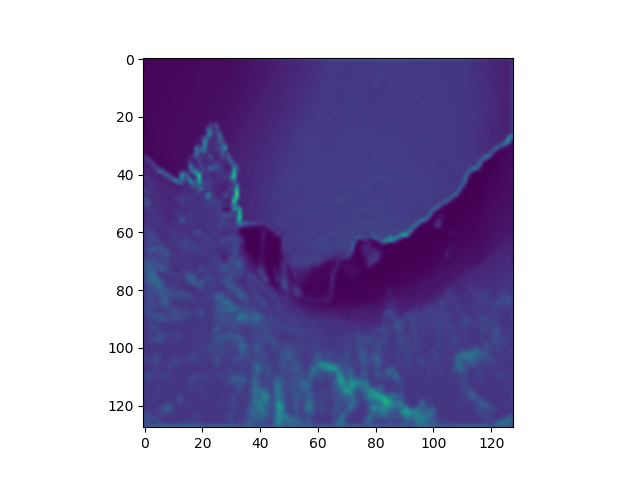
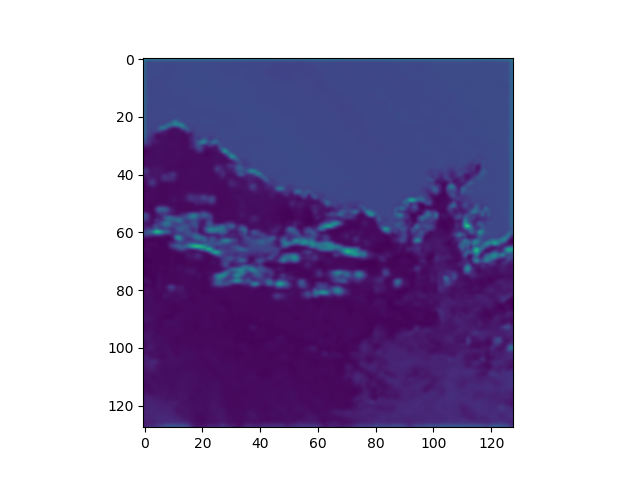
switch to resnet encoder

Changed region(s): [[0.2188, 0.125, 0.8125, 0.9062]]

diff --git a/models/networks.py b/models/networks.py
@@ -10,6 +10,68 @@ from .stylegan_networks import StyleGAN2Discriminator, StyleGAN2Generator, TileS
 ###############################################################################
 # Helper Functions
 ###############################################################################
+class ResnetAttention(nn.Module):
+    def __init__(self, input_nc, output_nc, ngf=64, norm_layer=nn.BatchNorm2d, use_dropout=False, n_blocks=6, padding_type='reflect', no_antialias=False, no_antialias_up=False, opt=None):
+        assert(n_blocks >= 0)
+        super(ResnetAttention, self).__init__()
+        self.opt = opt
+        if type(norm_layer) == functools.partial:
+            use_bias = norm_layer.func == nn.InstanceNorm2d
+        else:
+            use_bias = norm_layer == nn.InstanceNorm2d
+
+        model = [nn.ReflectionPad2d(3),
+                 nn.Conv2d(input_nc, ngf, kernel_size=7, padding=0, bias=use_bias),
+                 norm_layer(ngf),
+                 nn.ReLU(True)]
+
+        n_downsampling = 2
+        for i in range(n_downsampling):  # add downsampling layers
+            mult = 2 ** i
+            if(no_antialias):
+                model += [nn.Conv2d(ngf * mult, ngf * mult * 2, kernel_size=3, stride=2, padding=1, bias=use_bias),
+                          norm_layer(ngf * mult * 2),
+                          nn.ReLU(True)]
+            else:
+                model += [nn.Conv2d(ngf * mult, ngf * mult * 2, kernel_size=3, stride=1, padding=1, bias=use_bias),
+                          norm_layer(ngf * mult * 2),
+                          nn.ReLU(True),
+                          Downsample(ngf * mult * 2)]
+
+        mult = 2 ** n_downsampling
+        for i in range(n_blocks):       # add ResNet blocks
+
+            model += [ResnetBlock(ngf * mult, padding_type=padding_type, norm_layer=norm_layer, use_dropout=use_dropout, use_bias=use_bias)]
+
+        # add an additional layer to get final patch discriminator predictions for attention training
+        model += [nn.Conv2d(ngf*mult, 1, kernel_size=3, stride=1, padding=1, bias=use_bias)]
+
+        self.model = nn.Sequential(*model)
+
+    def forward(self, input, layers=[], encode_only=False):
+        if -1 in layers:
+            layers.append(len(self.model))
+        if len(layers) > 0:
+            feat = input
+            feats = []
+            for layer_id, layer in enumerate(self.model):
+                # print(layer_id, layer)
+                feat = layer(feat)
+                if layer_id in layers:
+                    # print("%d: adding the output of %s %d" % (layer_id, layer.__class__.__name__, feat.size(1)))
+                    feats.append(feat)
+                else:
+                    # print("%d: skipping %s %d" % (layer_id, layer.__class__.__name__, feat.size(1)))
+                    pass
+                if layer_id == layers[-1] and encode_only:
+                    # print('encoder only return features')
+                    return feats  # return intermediate features alone; stop in the last layers
+
+            return feat, feats  # return both output and intermediate features
+        else:
+            """Standard forward"""
+            fake = self.model(input)
+            return fake
 
 
 def get_filter(filt_size=3):
@@ -263,6 +325,9 @@ def define_G(input_nc, output_nc, ngf, netG, norm='batch', use_dropout=False, in
     elif netG == 'resnet_cat':
         n_blocks = 8
         net = G_Resnet(input_nc, output_nc, opt.nz, num_downs=2, n_res=n_blocks - 4, ngf=ngf, norm='inst', nl_layer='relu')
+    # add resnet attention decoder
+    elif netG == 'resnet_attention':
+        net = ResnetAttention(input_nc, output_nc, ngf, norm_layer=norm_layer, use_dropout=use_dropout, no_antialias=no_antialias, no_antialias_up=no_antialias_up, n_blocks=9, opt=opt)
     else:
         raise NotImplementedError('Generator model name [%s] is not recognized' % netG)
     return init_net(net, init_type, init_gain, gpu_ids, initialize_weights=('stylegan2' not in netG))

diff --git a/models/attention_model.py b/models/attention_model.py
@@ -21,7 +21,10 @@ class AttentionModel(BaseModel):
         self.loss_names = ['D']
         self.visual_names = ['input', 'output']
         self.model_names = ['D']
-        self.netD = networks.define_D(opt.output_nc, opt.ndf, opt.netD, opt.n_layers_D, opt.normD, opt.init_type, opt.init_gain, opt.no_antialias, self.gpu_ids, opt)
+        # self.netD = networks.define_D(opt.output_nc, opt.ndf, opt.netD, opt.n_layers_D, opt.normD, opt.init_type, opt.init_gain, opt.no_antialias, self.gpu_ids, opt)
+        self.netD = networks.define_G(opt.input_nc, opt.output_nc, opt.ngf, opt.netG, opt.normG, not opt.no_dropout,
+                                      opt.init_type, opt.init_gain, opt.no_antialias, opt.no_antialias_up, self.gpu_ids,
+                                      opt)
         self.layers = [2, 6, 10, 14]
         if self.isTrain:
             self.criterionLoss = networks.GANLoss(opt.gan_mode).to(self.device)
@@ -57,5 +60,6 @@ class AttentionModel(BaseModel):
 
     def generate_attention(self):
         "Return list of channel-wise squared mean feature maps"
-        feat_maps = self.netD.attention_forward(self.input_imgs, self.layers)
+        # feat_maps = self.netD.attention_forward(self.input_imgs, self.layers)
+        feat_maps = self.netG(self.input_imgs, self.layers, encode_only=True)
         return feat_maps

diff --git a/train_attention.py b/train_attention.py
@@ -13,6 +13,7 @@ if __name__ == '__main__':
     # dataset = create_dataset(opt)  # create a dataset given opt.dataset_mode and other options
     # dataset_size = len(dataset)    # get the number of images in the dataset.
 
+    opt.netG = 'resnet_attention'
     opt.batch_size = 4
     dataset = ImageFolder(opt.dataroot, transform=get_transform(opt))
     dataloader = torch.utils.data.DataLoader(dataset, batch_size=opt.batch_size, shuffle=True, drop_last=True)
@@ -52,8 +53,8 @@ if __name__ == '__main__':
                 model.setup(opt)               # regular setup: load and print networks; create schedulers
                 model.parallelize()
 
-            print(data)
-            print(data[0].shape)
+            # print(data)
+            # print(data[0].shape)
             model.set_input(data)  # unpack data from dataset and apply preprocessing
             model.optimize_parameters()   # calculate loss functions, get gradients, update network weights
             if len(opt.gpu_ids) > 0:

diff --git a/visualize_attention.py b/visualize_attention.py
@@ -14,7 +14,9 @@ from data.base_dataset import get_transform
 
 if __name__ == '__main__':
     load_path = "checkpoints/summer2winter_CUT/latest_net_D.pth"
-    img_path = "datasets/s2wy_test/testA/2010-09-07 12_23_20.jpg"
+    # img_path = "datasets/s2wy_test/testA/2010-09-07 12_23_20.jpg"
+    img_path = "datasets/s2wy_test/testA/2012-07-08 16_40_31.jpg"
+    # img_path = "datasets/s2wy_test/testB/2010-11-01 15_58_51.jpg"
     with torch.cuda.device(0):
         img = Image.open(img_path)
     # plt.imshow(img)
@@ -49,7 +51,7 @@ if __name__ == '__main__':
         image_map = torch.squeeze(image_map)
         print(image_map.shape)
         plt.imshow(image_map.cpu(), interpolation='bicubic')
-        plt.savefig("visualize_am/attention_map_" + str(counter) + ".png")
+        plt.savefig("visualize_am2/attention_map_" + str(counter) + ".png")
         counter += 1
     
         
